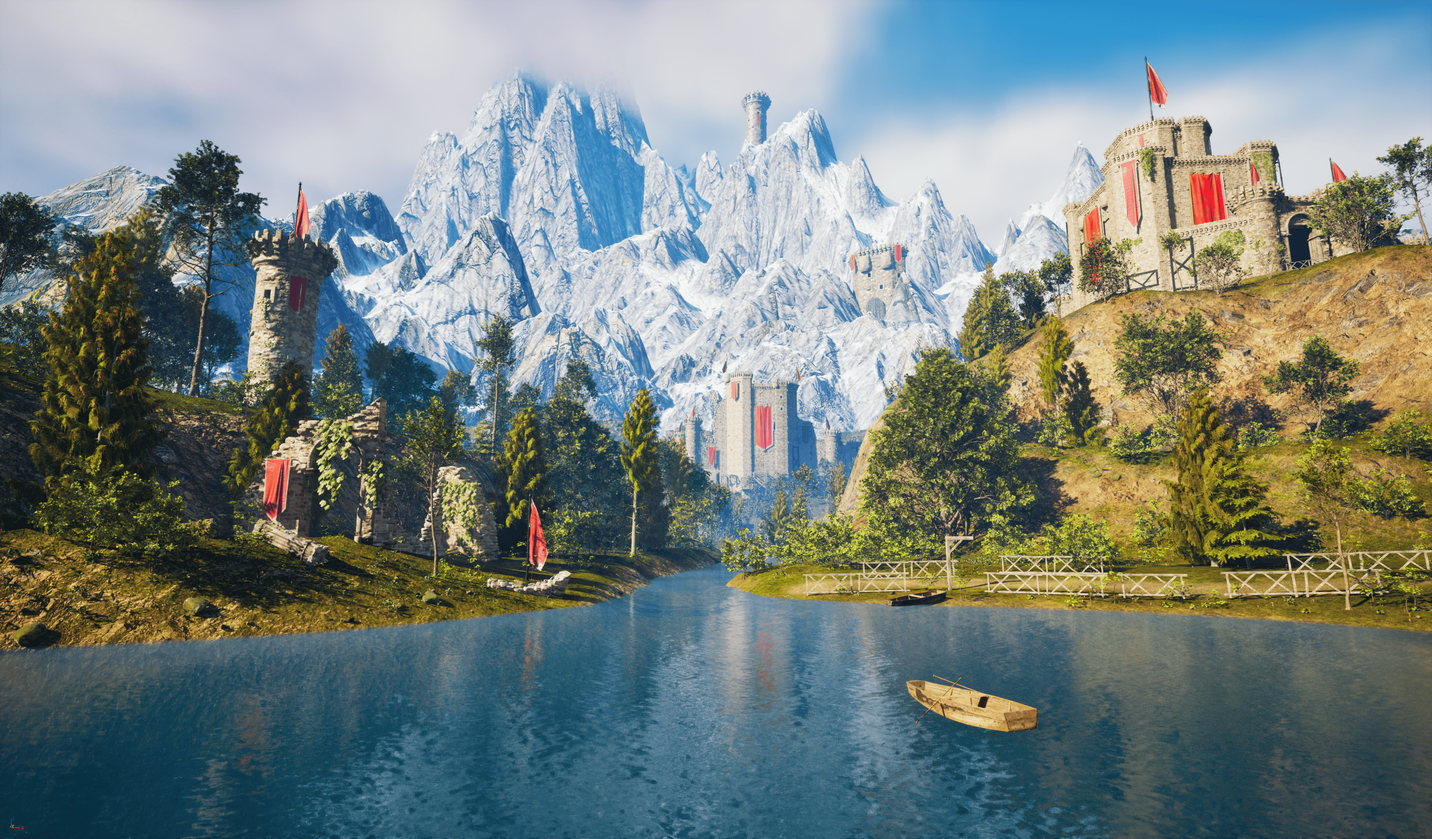
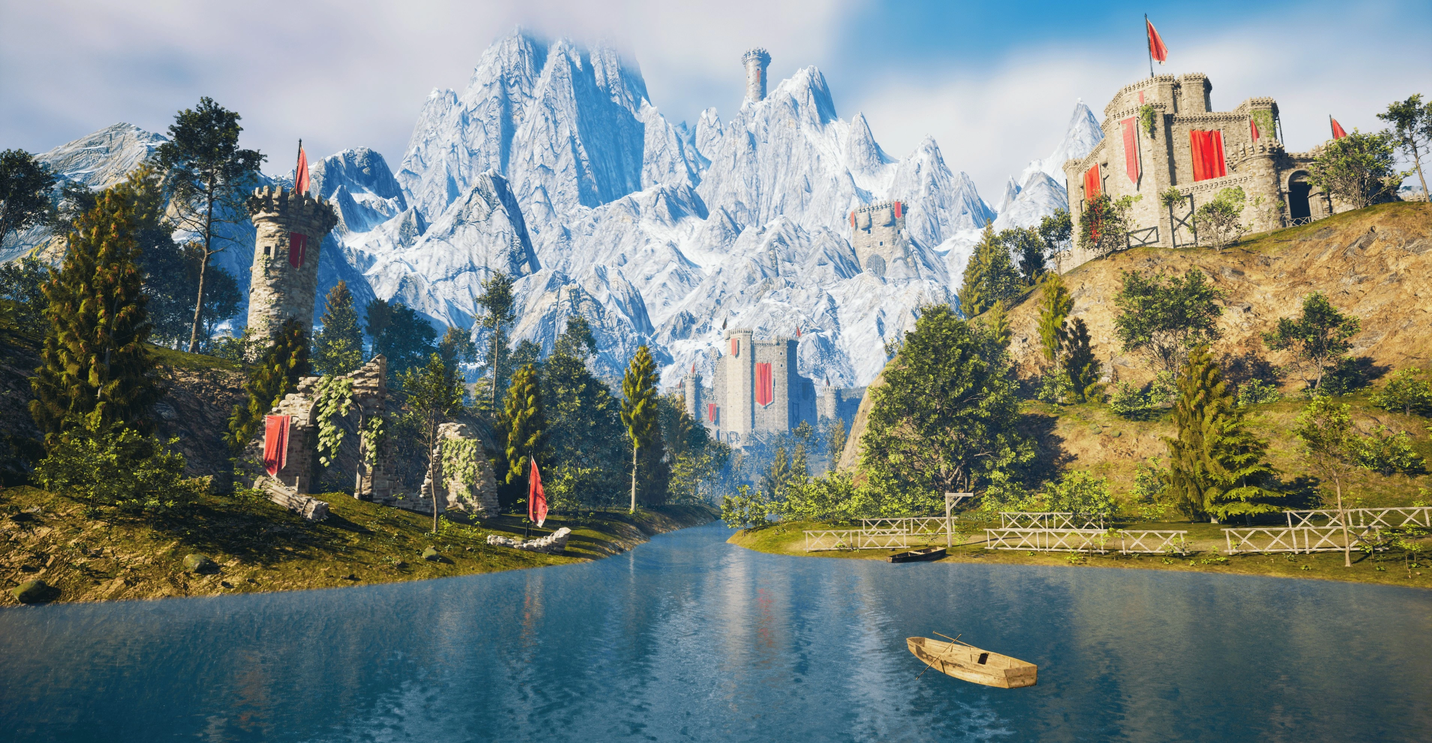
Updated ProjectUnrealEngine.jsx

diff --git a/src/projects/ProjectUnrealEngine.jsx b/src/projects/ProjectUnrealEngine.jsx
@@ -3,7 +3,7 @@ import { SiUnrealengine } from "react-icons/si";
 import CarouselComponent from "../ProjectCarousel.jsx";
 
 function ProjectUnrealEngine() {
-    const carouselImages = ['/unreal-engine.webp', '/unreal-engine.webp', '/unreal-engine.webp'];
+    const carouselImages = ['/unreal-engine.webp', '/unreal-engine-2.webp'];
 
     return (
         <div className="gradient-background min-h-screen">
